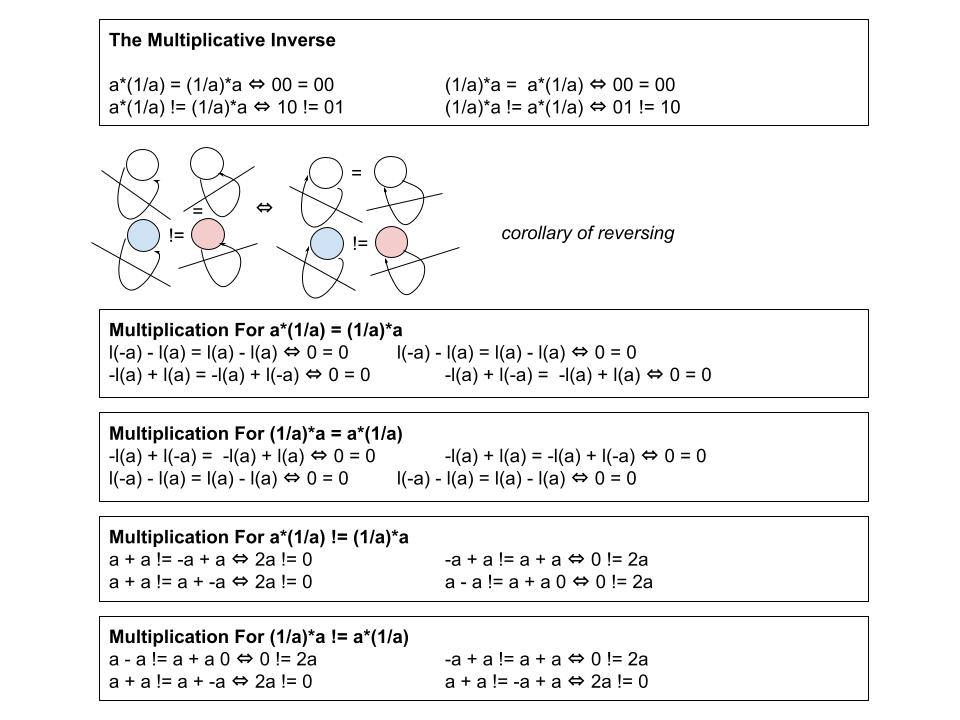
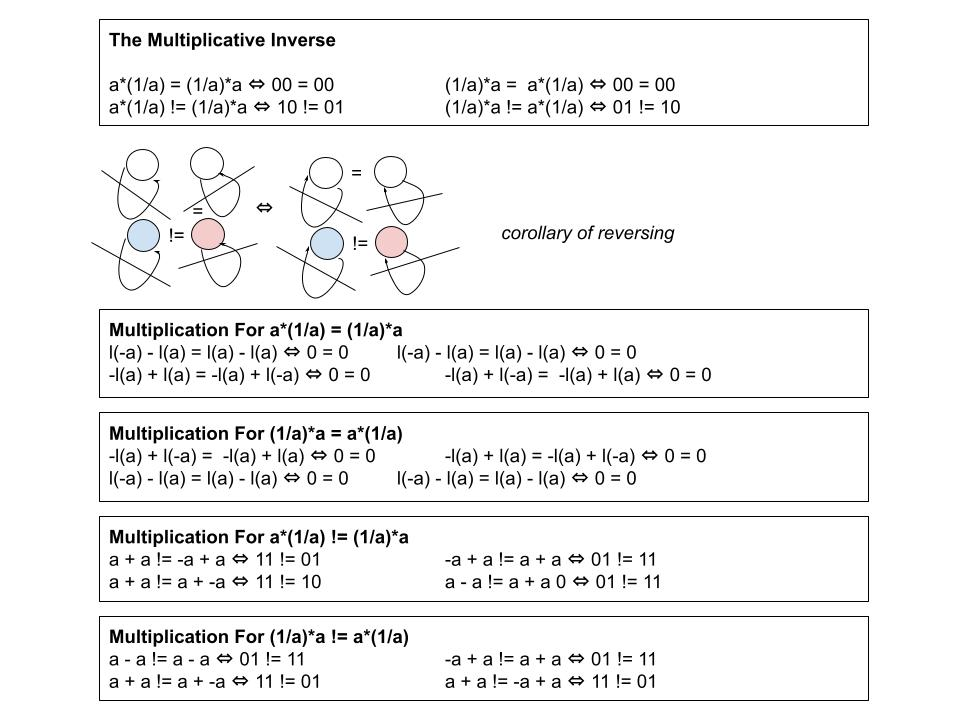
Multiplicative inverse and corollary of reversing

diff --git a/README.md b/README.md
@@ -54,6 +54,10 @@ Let's apply this idea with the monomial decider and picking function from the fo
 
 ![12MultiplitiveIdentity](Resources/12MultiplicativeIdentity.jpg)
 
+### 13. Multiplicative Inverse
+
+![13MultiplicativeInverse](Resources/13MultiplicativeInverse.jpg)
+
 -----
 
 # References
